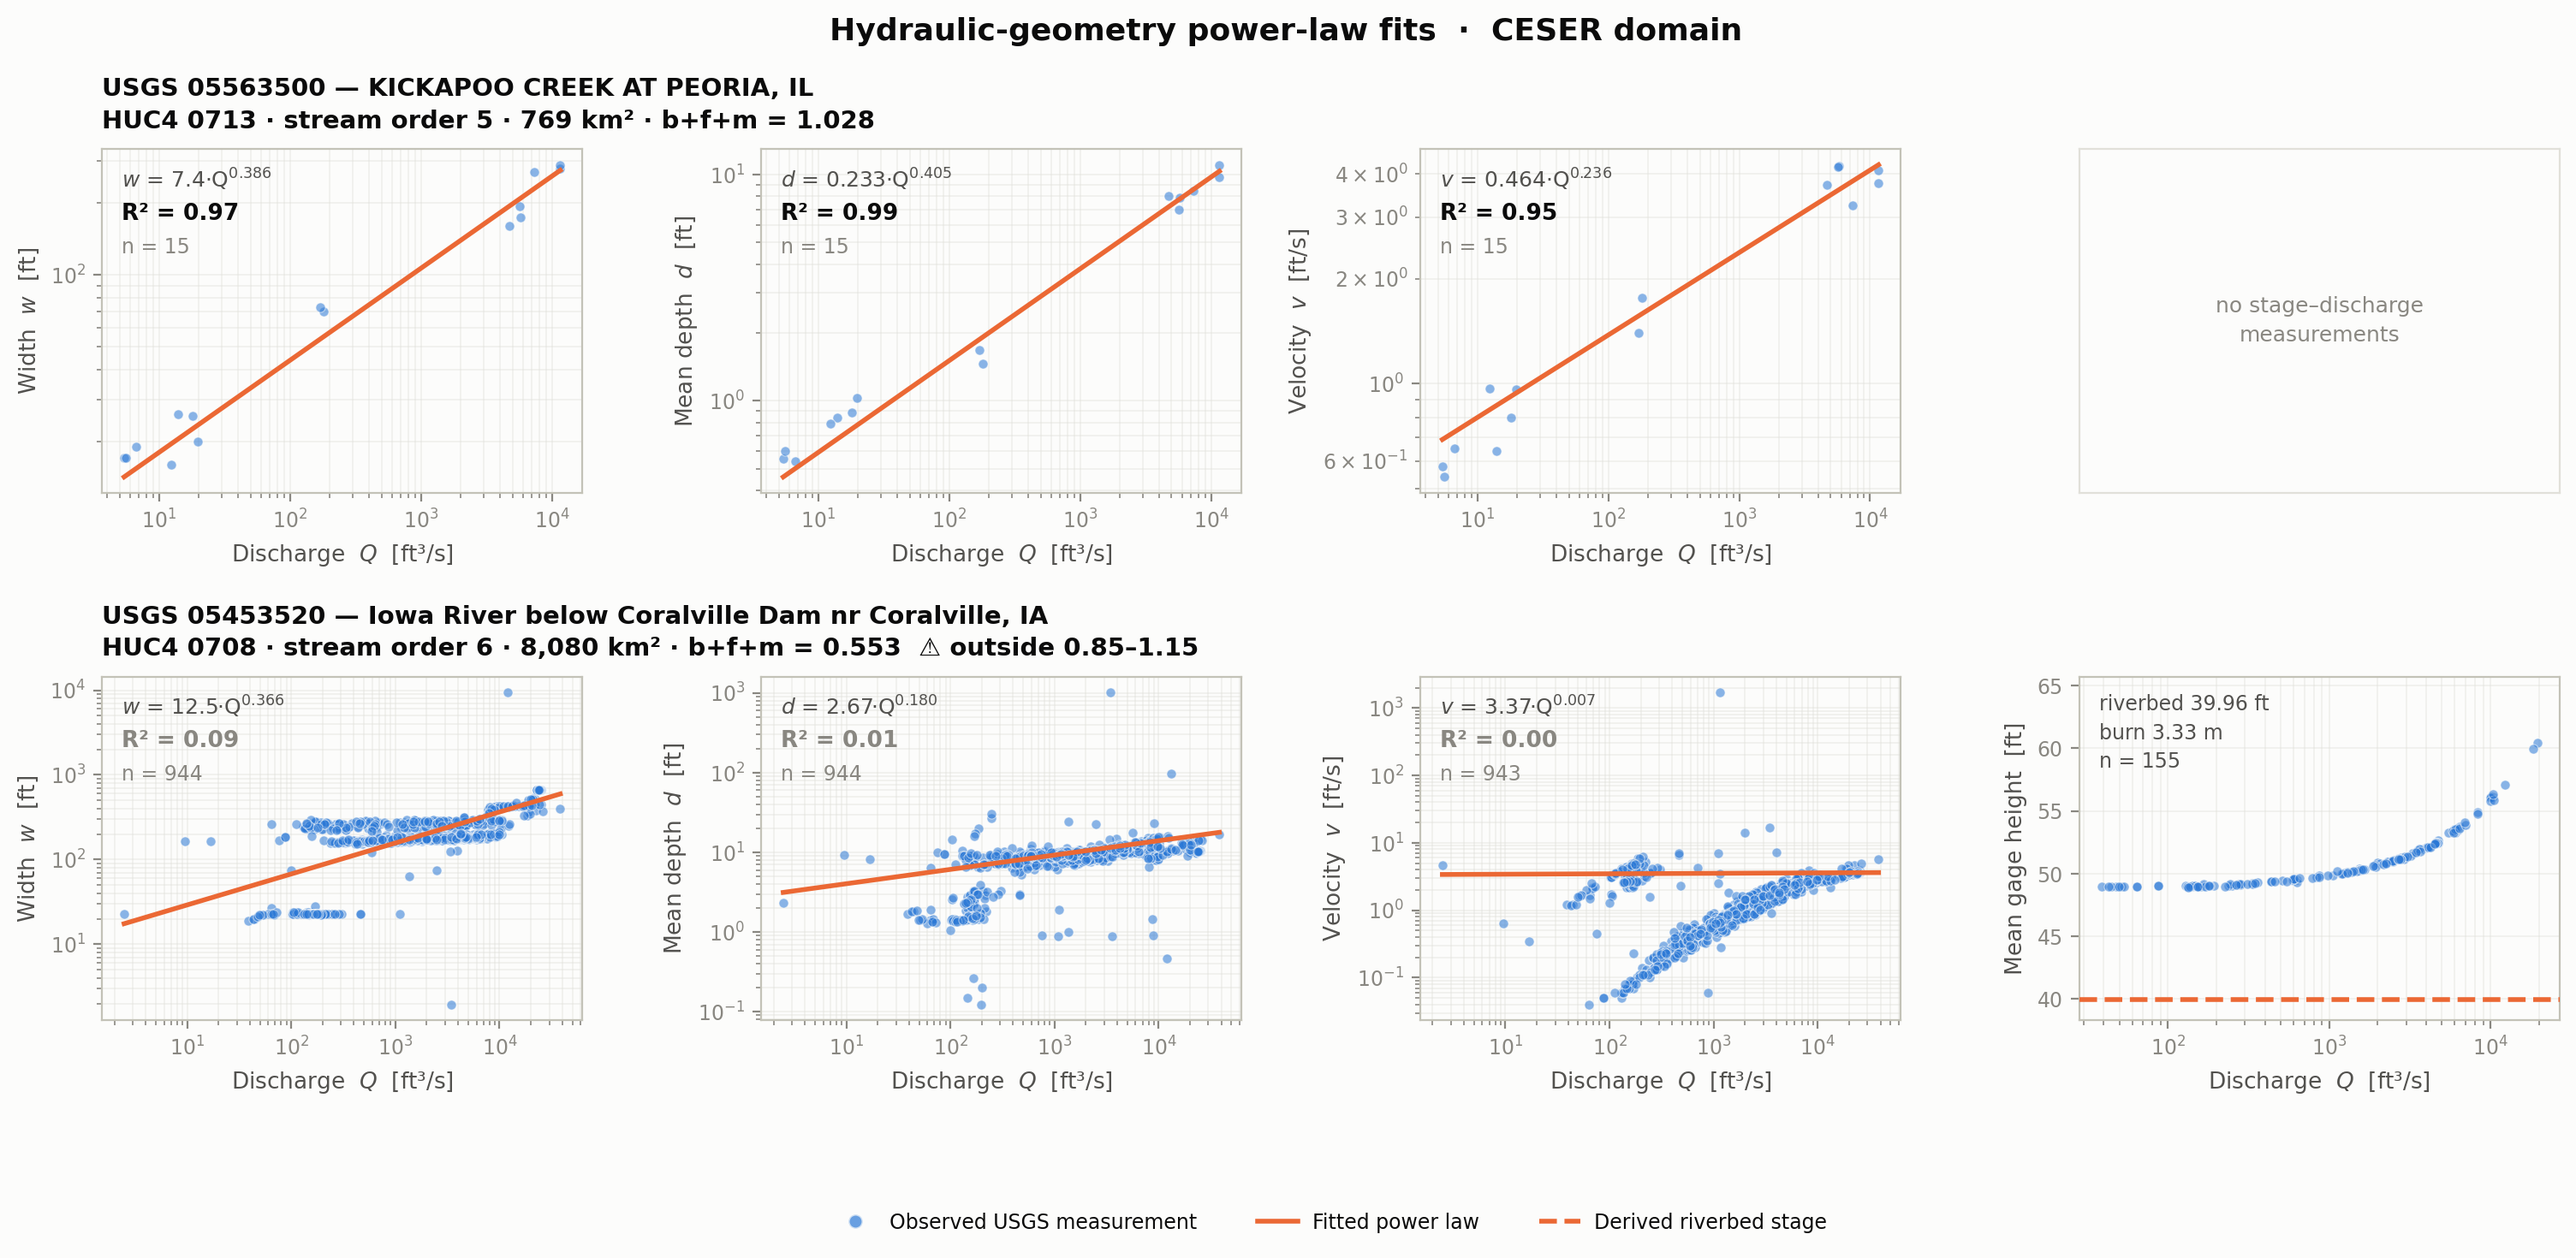
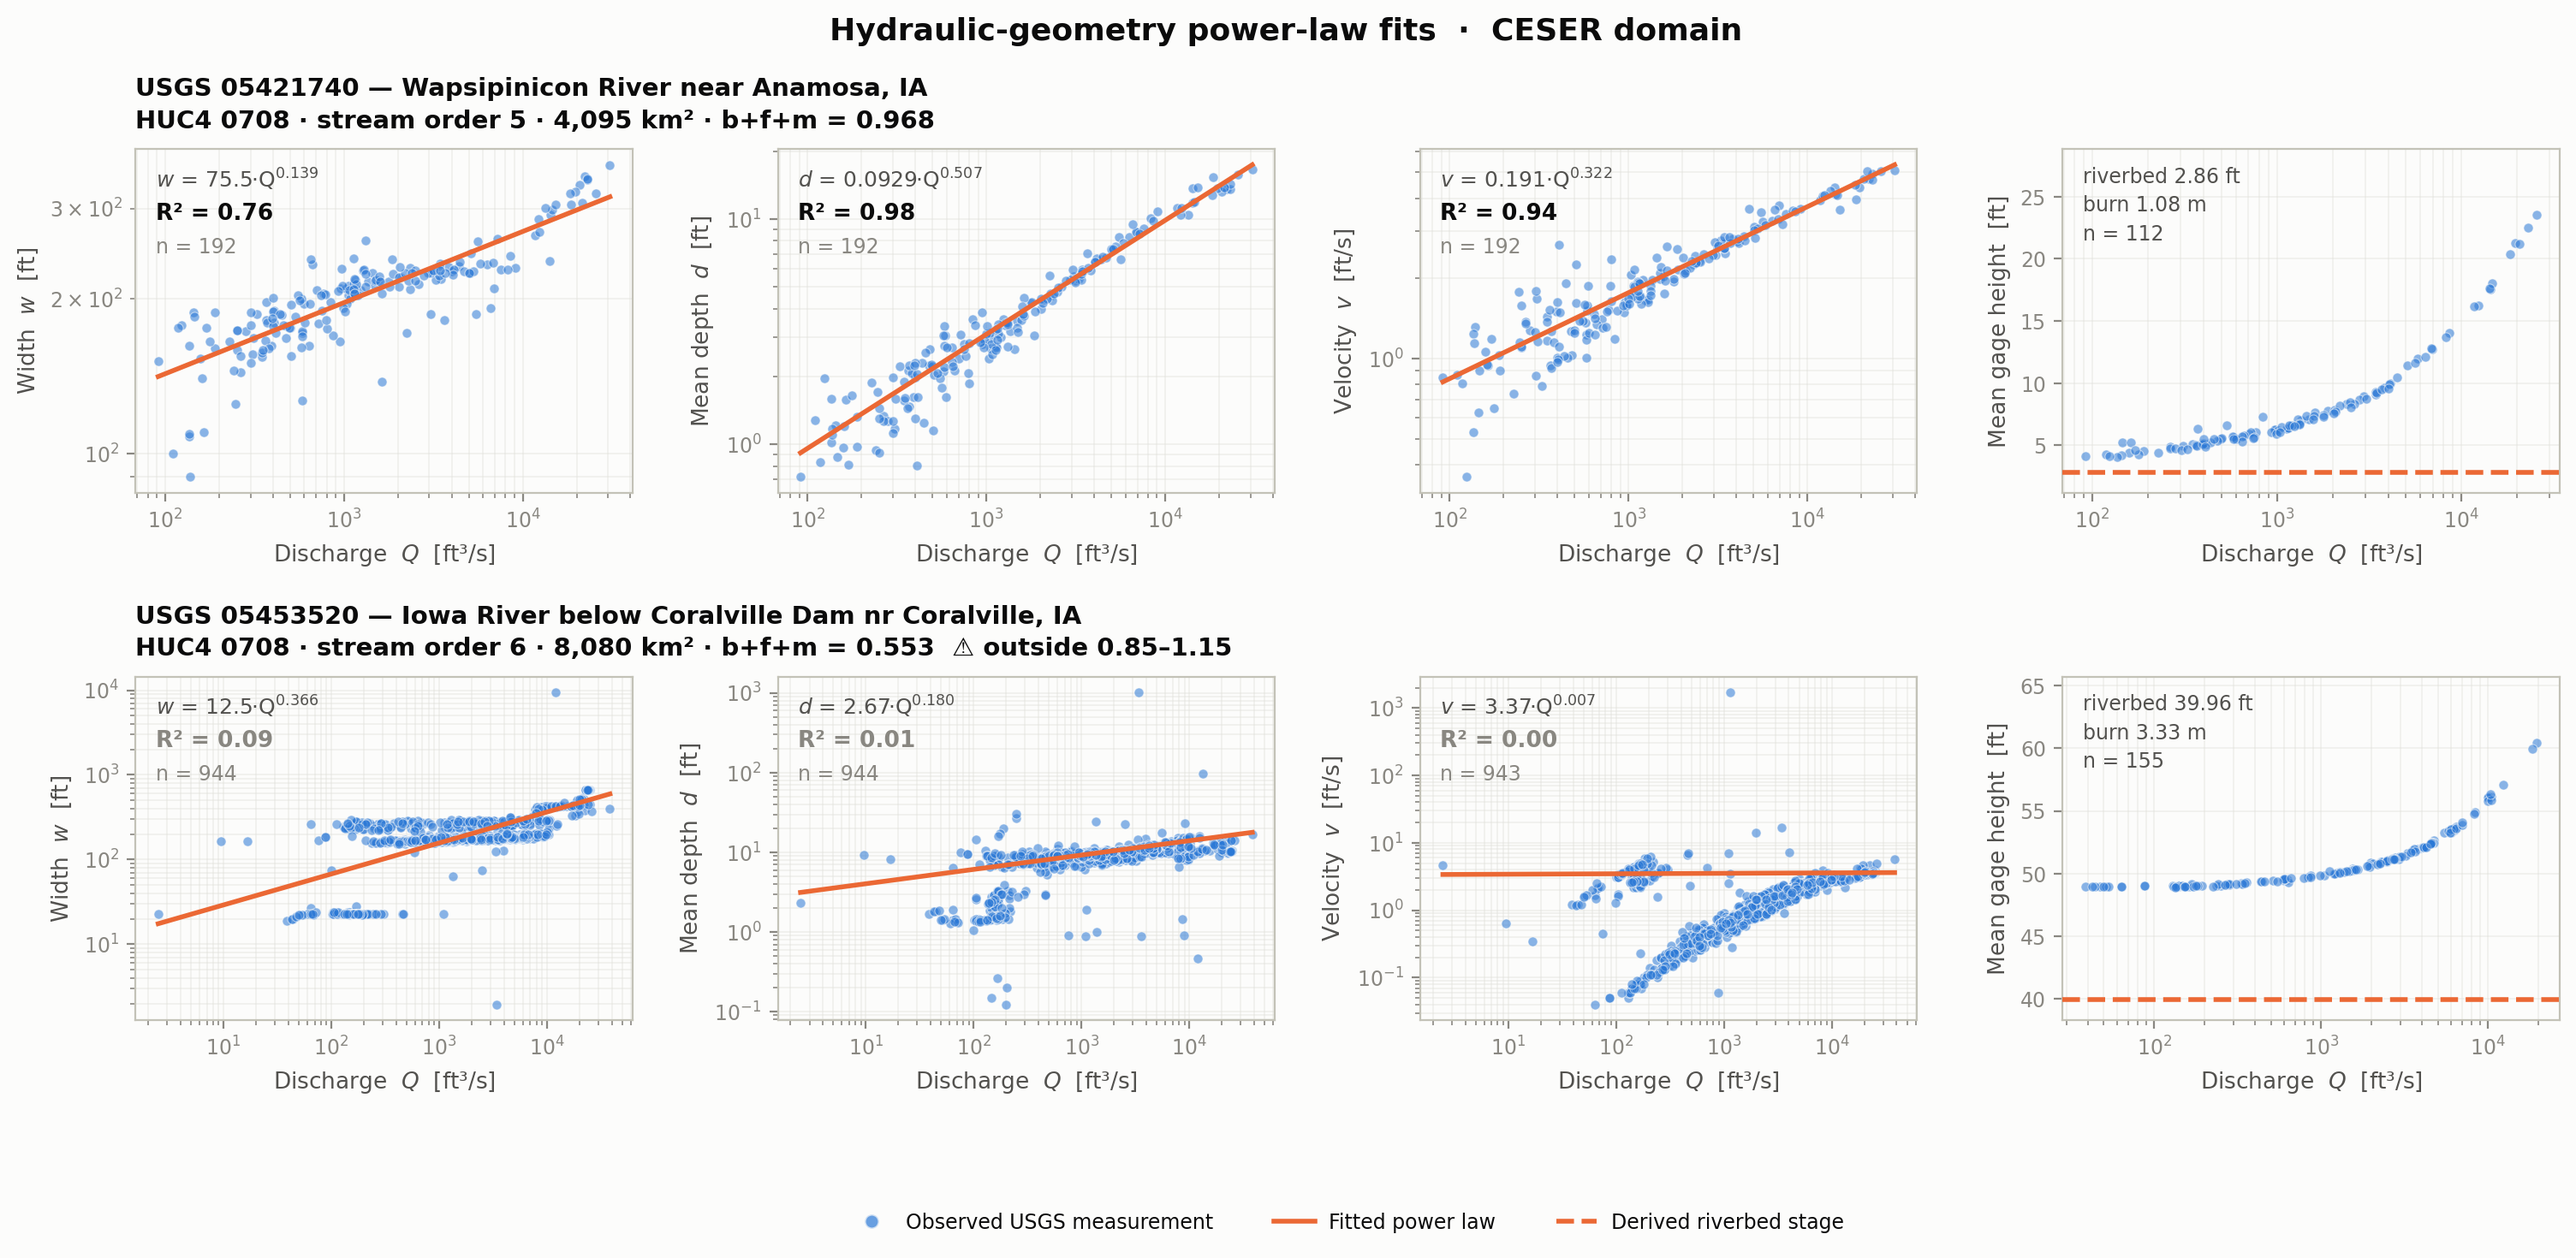
Use a better-sampled gage as the good-fit exemplar
The contrast figure previously used Kickapoo Creek, which has an excellent
R2 but only 15 channel measurements and no stage-discharge record, so its
top row showed sparse points beside an empty fourth panel. Replaced with
the Wapsipinicon River near Anamosa (n = 192, 112 stage-discharge
measurements, all four panels populated), which makes the comparison with
the dam-regulated Iowa River gage a like-for-like one.

diff --git a/README.md b/README.md
@@ -165,10 +165,12 @@ package ships the numbers you need to screen on: `r2_width`, `r2_depth`, `r2_vel
 
 ![Good versus poor fit](figures/gage_fits_good_vs_poor.png)
 
-*Same pipeline, two gages. Kickapoo Creek (top) is a clean power law. The Iowa River below
-Coralville Dam (bottom) is dam-regulated: the measurements split into separate branches, no
-power law can describe them, and R² collapses to ~0 — but the row still exists in the file
-and still carries coefficients.*
+*Same pipeline, two well-sampled gages. The Wapsipinicon River (top, n = 192) is a clean
+power law — depth and velocity are tight, and width is the loosest of the three, as it
+usually is. The Iowa River below Coralville Dam (bottom, n = 944) is dam-regulated: the
+measurements split into separate branches, no power law can describe them, and R² collapses
+to ~0 — but the row still exists in the file and still carries coefficients that look
+perfectly ordinary until you check `r2_*`.*
 
 A reasonable screen:
 
